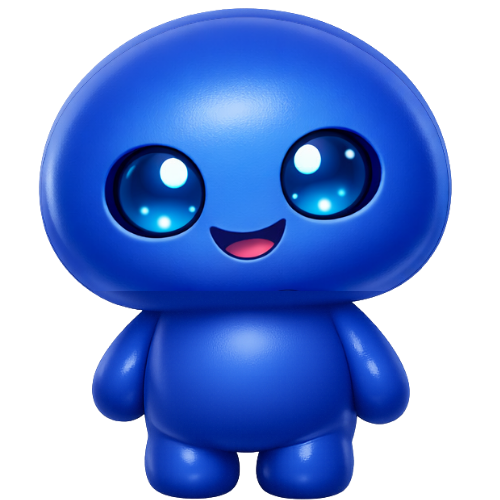
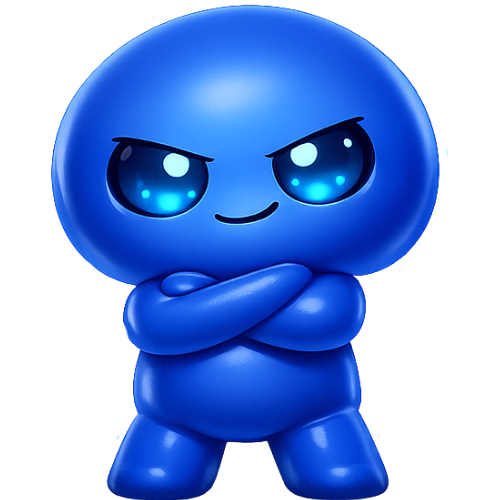
new intro overlay implement

diff --git a/src/components/main/intro-overlay.tsx b/src/components/main/intro-overlay.tsx
@@ -3,12 +3,12 @@
 import Image, { type StaticImageData } from "next/image";
 import { useEffect, useRef, useState } from "react";
 
-const LOGO_DEFAULT = "/assets/zaeon-brain.png";
+const LOGO_DEFAULT = "/assets/zaeon-baby.png";
 
-// Substitua pelos caminhos reais dos PNGs do seu personagem para a animação
-const IMG_33_SRC = "/assets/zaeon-baby2.png";
-const IMG_66_SRC = "/assets/zaeon-baby3.png";
-const IMG_88_SRC = "/assets/zaeon-baby4.png";
+const IMG_25_SRC = "/assets/zaeon-baby2.png";
+const IMG_50_SRC = "/assets/zaeon-baby3.png";
+const IMG_75_SRC = "/assets/zaeon-baby3.png";
+const IMG_100_SRC = "/assets/zaeon-baby4.png";
 
 const TIMELINE = {
     AUDIO_SRC: "/assets/sounds/boot-track.mp3",
@@ -93,14 +93,22 @@ export default function MacSplash({ show = true, onDone, logoSrc = LOGO_DEFAULT 
 
             if (currentGlobalPercent >= 100) {
                 newFrameValue = 100;
-                nextImageSource = IMG_88_SRC;
+                nextImageSource = IMG_100_SRC;
+            } else if (currentGlobalPercent >= 88) {
+                newFrameValue = 88;
+                nextImageSource = IMG_75_SRC;
             } else if (currentGlobalPercent >= 66) {
                 newFrameValue = 66;
-                nextImageSource = IMG_66_SRC;
+                nextImageSource = IMG_50_SRC;
             } else if (currentGlobalPercent >= 33) {
-                newFrameValue = 33;
-                nextImageSource = IMG_33_SRC;
+                newFrameValue = 25;
+                nextImageSource = IMG_25_SRC;
+            } else if (hasStarted) {
+                // De 0% até <33%, mas após o clique: ele já acordou.
+                newFrameValue = 1; // Usamos 1 como um 'frame intermediário' para o 'acordar'
+                nextImageSource = IMG_25_SRC; // Ele acorda imediatamente
             } else {
+                // Antes de clicar: ele está dormindo
                 newFrameValue = 0;
                 nextImageSource = logoSrc;
             }
@@ -123,7 +131,7 @@ export default function MacSplash({ show = true, onDone, logoSrc = LOGO_DEFAULT 
                 // Garante que a imagem final 100% esteja definida
                 if (imageFrameRef.current !== 100) {
                     imageFrameRef.current = 100;
-                    setCurrentCharacterImg(IMG_88_SRC);
+                    setCurrentCharacterImg(IMG_100_SRC);
                 }
 
                 // Adicionado delay de 800ms para garantir que o usuário veja os 100% antes da tela sumir
@@ -170,42 +178,87 @@ export default function MacSplash({ show = true, onDone, logoSrc = LOGO_DEFAULT 
     const zhPhrase = phase >= 4 ? "世界之希望已诞生" : phase >= 3 ? "日月星辰皆为吾家" : phase >= 1 ? "万物归一" : "";
 
     return (
-        <div className="fixed inset-0 z-[9999] flex flex-col items-center justify-center bg-black transition-opacity duration-500" style={{ opacity }}>
-            <div className="flex flex-col items-center justify-center px-6">
-                <button onClick={handleInitiate} className={`flex flex-col items-center justify-center transition-all duration-300 ${!hasStarted ? "cursor-pointer hover:scale-105 opacity-80" : "cursor-default"}`} disabled={hasStarted}>
-                    {/* Esta é a única imagem central agora. 
-                        O 'src' muda de acordo com o estado 'currentCharacterImg' 
-                        que controlamos no loop de animação.
-                    */}
-                    <Image
-                        src={currentCharacterImg}
-                        alt="Zaeon Character Animation"
-                        width={100}
-                        height={100}
-                        priority
-                        className="mb-4 object-contain transition-transform duration-300"
-                    />
+        <>
+            <div className="fixed inset-0 z-[9999] flex flex-col items-center justify-center bg-black transition-opacity duration-500" style={{ opacity }}>
+                <div className="flex flex-col items-center justify-center px-6">
+                    {/* Contêiner relativo para a animação Zzz */}
+                    <button onClick={handleInitiate} className={`flex flex-col items-center justify-center transition-all duration-300 relative ${!hasStarted ? "cursor-pointer hover:scale-105 opacity-80" : "cursor-default"}`} disabled={hasStarted}>
 
-                    {!hasStarted && <span className="text-white/80 tracking-[0.2em] text-xs font-medium animate-pulse">CLICK TO START ZAEONBOT</span>}
-                </button>
-
-                {/* Altura reduzida pois removemos a grid de imagens de baixo */}
-                <div className="h-[90px] flex flex-col items-center justify-start mt-6 w-full">
-                    {!hasStarted ? (
-                        <div className="text-center text-[10px] tracking-widest text-sky-400/70 font-light mt-4 uppercase">For a better experience, use headphones</div>
-                    ) : (
-                        <>
-                            <div className={`w-[200px] h-[3px] rounded-full bg-white/15 overflow-hidden transition-opacity duration-500 ${phase >= 1 ? 'opacity-100' : 'opacity-0'}`}>
-                                <div ref={progressBarRef} className="h-full rounded-full" style={{ width: "0%", background: "linear-gradient(90deg,rgba(255,255,255,.9),rgba(230,236,255,.95),rgba(255,255,255,.9))", boxShadow: "0 0 8px rgba(255,255,255,0.35)", transition: "none" }} />
+                        {/* ============================================================
+                            NOVA ANIMAÇÃO "Zzz" corrigida e reposicionada
+                            ============================================================
+                        */}
+                        {!hasStarted && (
+                            <div className="absolute top-[-40px] right-[10px] flex items-end gap-0.5 z-10 pointer-events-none">
+                                <span className="zzz-text zzz-1 text-[13px] font-bold text-sky-400/90 tracking-tighter">Z</span>
+                                <span className="zzz-text zzz-2 text-[10px] font-medium text-sky-400/80 tracking-tighter">z</span>
+                                <span className="zzz-text zzz-3 text-[12px] font-semibold text-sky-400/85 tracking-tighter">z</span>
+                                <span className="zzz-text zzz-4 text-[9px] text-sky-400/70 tracking-tighter">z</span>
+                                <span className="zzz-text zzz-5 text-[11px] font-medium text-sky-400/80 tracking-tighter">z</span>
                             </div>
+                        )}
+                        {/* ============================================================ */}
 
-                            {zhPhrase && <div className="mt-6 text-center text-[10px] tracking-widest text-sky-400/90 font-light">{zhPhrase}</div>}
+                        <Image
+                            src={currentCharacterImg}
+                            alt="Zaeon Character Animation"
+                            width={100}
+                            height={100}
+                            priority
+                            className="mb-4 object-contain transition-transform duration-300"
+                        />
 
-                            {/* A div anterior das 3 imagens foi removida daqui */}
-                        </>
-                    )}
+                        {!hasStarted && <span className="text-white/80 tracking-[0.2em] text-xs font-medium animate-pulse">CLICK TO START ZAEONBOT</span>}
+                    </button>
+
+                    <div className="h-[90px] flex flex-col items-center justify-start mt-6 w-full">
+                        {!hasStarted ? (
+                            <div className="text-center text-[10px] tracking-widest text-sky-400/70 font-light mt-4 uppercase">For a better experience, use headphones</div>
+                        ) : (
+                            <>
+                                <div className={`w-[200px] h-[3px] rounded-full bg-white/15 overflow-hidden transition-opacity duration-500 ${phase >= 1 ? 'opacity-100' : 'opacity-0'}`}>
+                                    <div ref={progressBarRef} className="h-full rounded-full" style={{ width: "0%", background: "linear-gradient(90deg,rgba(255,255,255,.9),rgba(230,236,255,.95),rgba(255,255,255,.9))", boxShadow: "0 0 8px rgba(255,255,255,0.35)", transition: "none" }} />
+                                </div>
+
+                                {zhPhrase && <div className="mt-6 text-center text-[10px] tracking-widest text-sky-400/90 font-light">{zhPhrase}</div>}
+                            </>
+                        )}
+                    </div>
                 </div>
             </div>
-        </div>
+
+            <style jsx global>{`
+                @keyframes zzz-float {
+                    0% {
+                        opacity: 0;
+                        transform: translateY(0) rotate(0deg) scale(0.8);
+                    }
+                    15% {
+                        opacity: 1;
+                        transform: translateY(-5px) rotate(3deg) scale(1);
+                    }
+                    80% {
+                        opacity: 1;
+                        transform: translateY(-25px) rotate(-3deg) scale(1.1);
+                    }
+                    100% {
+                        opacity: 0;
+                        transform: translateY(-30px) rotate(0deg) scale(1);
+                    }
+                }
+
+                .zzz-text {
+                    display: inline-block;
+                    animation: zzz-float 3s infinite ease-in-out;
+                    font-family: monospace;
+                }
+
+                .zzz-1 { animation-delay: 0s; }
+                .zzz-2 { animation-delay: 0.5s; animation-duration: 2.8s; }
+                .zzz-3 { animation-delay: 1.1s; animation-duration: 3.2s;}
+                .zzz-4 { animation-delay: 1.7s; animation-duration: 2.7s;}
+                .zzz-5 { animation-delay: 2.3s; animation-duration: 3.1s;}
+            `}</style>
+        </>
     );
 }
